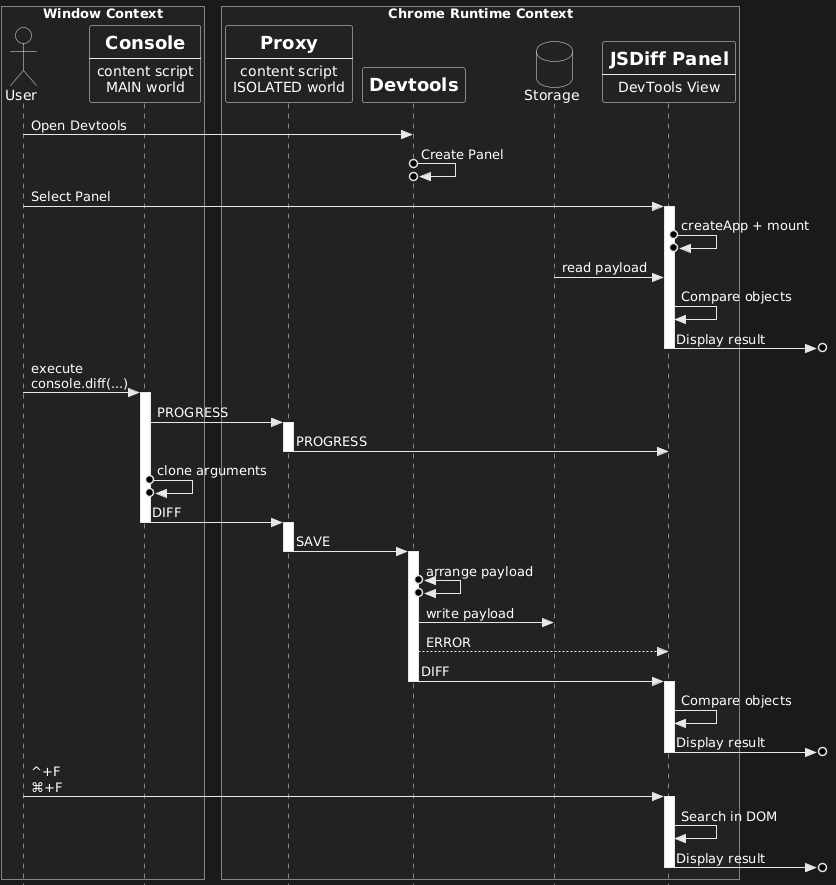
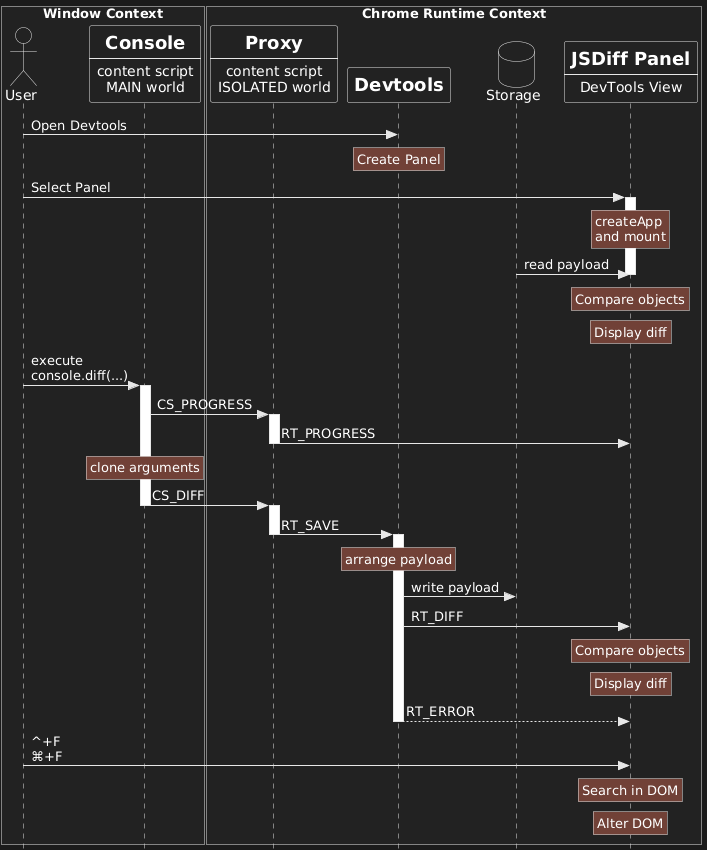
v3.4.1 Firefox only (#39)
Fix communication bug in v3.4.0 in Firefox only

---------

Pull request: v3.4.1 Firefox
Fix communication bug in v3.4.0 in Firefox only

<!-- This is an auto-generated comment: release notes by coderabbit.ai -->

## Summary by CodeRabbit

## Release Notes

* **Version Update**
  * Firefox extension version bumped to 3.4.1
  
* **Refactor**
  * Simplified connection handling and background script port management
  * Updated build process with enhanced testing and audit checks
  
* **Documentation**
  * Refreshed architecture diagrams for both Chrome and Firefox implementations

<!-- review_stack_entry_start -->

[![Review Change Stack](https://storage.googleapis.com/coderabbit_public_assets/review-stack-in-coderabbit-ui.svg)](https://app.coderabbit.ai/change-stack/zendive/jsdiff/pull/39?utm_source=github_walkthrough&utm_medium=github&utm_campaign=change_stack)

<!-- review_stack_entry_end -->

<!-- end of auto-generated comment: release notes by coderabbit.ai -->

diff --git a/src/firefox/jsdiff-background.ts b/src/firefox/jsdiff-background.ts
@@ -1,31 +1,24 @@
-// background script for firefox's partial(?) MV3 implementation
+// background script for Firefox
 
 import { BACKGROUND_SCRIPT_CONNECTION_NAME } from '../api/const.ts';
 
-const ports = new Map<number, browser.runtime.Port>();
+const ports = new Set<browser.runtime.Port>();
 
-// Listen for connections from DevTools pages
+// listen to requests from browser.runtime.connect
 browser.runtime.onConnect.addListener((port) => {
-  if (port.name === BACKGROUND_SCRIPT_CONNECTION_NAME) {
-    const contextId = port.sender && 'contextId' in port.sender
-      ? (port.sender.contextId as number)
-      : -1;
-    console.assert(contextId !== -1, 'unreliable port.sender.contextId');
-
-    if (!ports.has(contextId)) {
-      ports.set(contextId, port);
-      console.log('++ added port', contextId, 'total', ports.size);
-    }
-
-    port.onDisconnect.addListener(() => {
-      ports.delete(contextId);
-      console.log('-- port removed', contextId);
-    });
+  if (port.name !== BACKGROUND_SCRIPT_CONNECTION_NAME || ports.has(port)) {
+    return;
   }
+
+  ports.add(port);
+  // console.debug('++ ports', ports.size);
+
+  port.onDisconnect.addListener((port) => {
+    ports.delete(port);
+    // console.debug('-- ports', ports.size);
+  });
 });
 
-// Listen for messages from content scripts
-// and forward the message to the DevTools page connected ports
 browser.runtime.onMessage.addListener((msg) => {
   ports.forEach((port) => void port.postMessage(msg));
 });

diff --git a/src/api/useRuntime.ts b/src/api/useRuntime.ts
@@ -10,10 +10,7 @@
  * onUnmount(() => { runtime.disconnect(); });
  */
 
-import {
-  BACKGROUND_SCRIPT_CONNECTION_INTERVAL,
-  BACKGROUND_SCRIPT_CONNECTION_NAME,
-} from './const.ts';
+import { BACKGROUND_SCRIPT_CONNECTION_NAME } from './const.ts';
 import type { TRuntimeEvents } from './events.ts';
 
 type TRuntimeListenerSync = (e: TRuntimeEvents) => void;
@@ -30,24 +27,18 @@ function callAllListeners(e: TRuntimeEvents) {
   }
 }
 
-function getFirefoxPort(callback: TRuntimeListener) {
+function getFirefoxPort() {
   const port = <chrome.runtime.Port> browser.runtime.connect({
     name: BACKGROUND_SCRIPT_CONNECTION_NAME,
   });
-
-  port.onMessage.addListener(callback);
 
   return port;
 }
 
 if (typeof browser !== 'undefined') {
   // firefox
-  let port = getFirefoxPort(callAllListeners);
-
-  setInterval(() => {
-    port.disconnect();
-    port = getFirefoxPort(callAllListeners);
-  }, BACKGROUND_SCRIPT_CONNECTION_INTERVAL);
+  const port = getFirefoxPort();
+  port.onMessage.addListener(callAllListeners);
 } else {
   // chrome
   chrome.runtime.onMessage.addListener(callAllListeners);

diff --git a/src/jsdiff-devtools.ts b/src/jsdiff-devtools.ts
@@ -7,6 +7,7 @@ import {
   type TRuntimeEvents,
 } from './api/events.ts';
 import { runtimeResponse } from './api/toolkit.ts';
+import { useRuntime } from './api/useRuntime.ts';
 
 // tabId may be null if user opened the devtools of the devtools
 if (chrome.devtools.inspectedWindow.tabId !== null) {
@@ -15,7 +16,12 @@ if (chrome.devtools.inspectedWindow.tabId !== null) {
     '/public/img/panel-icon28.png',
     '/public/jsdiff-panel.html',
     (/*panel*/) => {
-      chrome.runtime.onMessage.addListener(onRuntimeMessage);
+      if (typeof browser !== 'undefined') {
+        const runtime = useRuntime();
+        runtime.connect(onRuntimeMessage);
+      } else {
+        chrome.runtime.onMessage.addListener(onRuntimeMessage);
+      }
     },
   );
 }

diff --git a/src/api/const.ts b/src/api/const.ts
@@ -28,6 +28,5 @@ export const ERROR_NO_CONNECTION =
   'Could not establish connection. Receiving end does not exist.';
 export const ERROR_PORT_CLOSED =
   'The message port closed before a response was received.';
-export const BACKGROUND_SCRIPT_CONNECTION_INTERVAL = 30e3;
 export const BACKGROUND_SCRIPT_CONNECTION_NAME = 'jsdiff-devtools-page-connect';
 export const UPPERCASE_PATTERN = /\p{Lu}/u; // 'u' flag enables Unicode matching